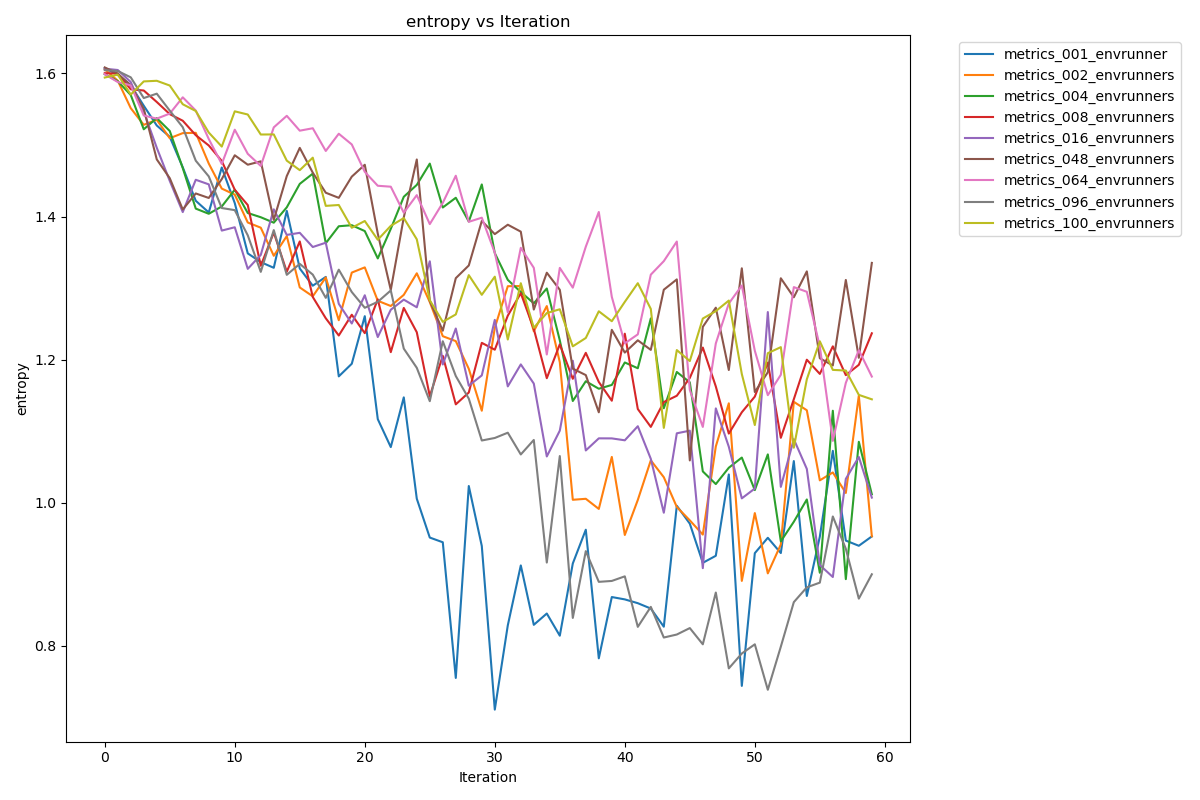
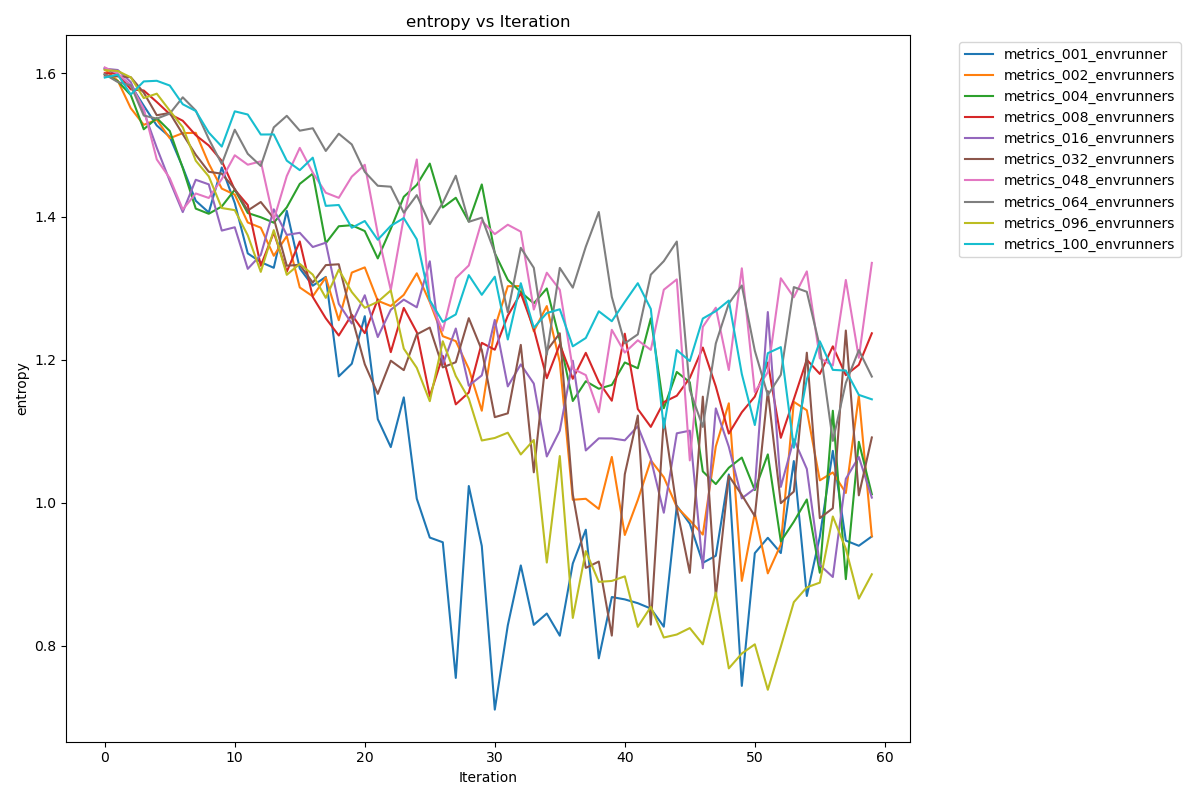
Add 32 envrunners

diff --git a/report.md b/report.md
@@ -61,17 +61,11 @@ Note: The throughput graph excludes the first iteration. The initial measurement
 | metrics_2hosts_104envrunners | 52.634615384615394 | 52.634615384615394 | 25.95306044842719 | 11.022670900842188 | 483.58027691275186 | 78.74916946138404 |
 
 **Total Training Time**
-We expected a signifcant decrease in the time required to collect the 8000 steps, but the time stabilized between 102-109 minutes. We parallelized the sampling phase (playing the game) by increasing the number of runners. However, the learning phase (calculating gradients and updating the network weights) remained a sequential bottleneck.
-
+We expected a signifcant decrease in the time required to collect the 8000 steps, but the time stabilized between 102-109 minutes. One hypothesis to explain this is that we parallelized the sampling phase (playing the game) by increasing the number of runners. However, the learning phase (calculating gradients and updating the network weights) remained a sequential bottleneck.
 
 **Sample Efficiency**
 We expected the rewards to increase, but single-node setups with 1–2 envs had the highest performance. Very high parallelism or multi-node setups might have reduced reward due to unstable learning and synchronization overhead. While 1–2 runners allowed the agent to achieve high mean returns, the 104-runner distributed setup saw a sharp decline.
 
-**Episode Length**
-We expected an increase in episode length.
-
-
-**Losses and Policy Entropy**
 
 **Sample Throughput**
 
@@ -97,6 +91,7 @@ Below can be found a detailed presentation of each experiment.
 | metrics_004_envrunners | 102.1875 | 102.1875 | 60.906576492537326 | 22.80347487439459 | 938.502139303483 | 66.16930259080075 |
 | metrics_008_envrunners | 120.32500000000002 | 151.4375 | 85.81225340136055 | 37.92548127820646 | 794.9601573129253 | 71.02742005495423 |
 | metrics_016_envrunners | 107.8375 | 111.75 | 68.85440883190883 | 26.60861981958292 | 695.885892094017 | 73.48247530354112 |
+| metrics_032_envrunners | 171.8125 | 176.59375 | 106.53732073011734 | 58.949269654604244 | 630.1186033246413 | 72.87489488745433 |
 | metrics_048_envrunners | 71.33333333333333 | 90.33333333333331 | 60.075464083938655 | 24.010422146349164 | 611.3496771589993 | 75.6646421836694 |
 | metrics_064_envrunners | 150.109375 | 152.0 | 79.24534581386074 | 47.78348748577528 | 610.1362361905492 | 77.32921319605522 |
 | metrics_096_envrunners | 104.08333333333331 | 104.08333333333331 | 52.108100221309996 | 25.830408052200628 | 585.9487801162471 | 73.7251977142047 |
@@ -109,7 +104,7 @@ We were able to detect that the throughtput increased, with more environment ste
 
 ![Env steps per second vs iteration](comparison_results/1host/env_steps_per_second_vs_iteration.png)
 
-However, the analysis of the rewards shows that the highest rewards were achieved with 2 environment runners, followed by experiments with 64, 8, and 1.
+However, the analysis of the rewards shows that the highest rewards were achieved with 2 environment runners, followed by experiments with 64, 32, 8, and 1.
 
 ![Reward vs iteration](comparison_results/1host/reward_vs_iteration.png)
 
@@ -220,9 +215,10 @@ Hoping to benefit from horizontal scaling, we tested a configuration with 2 host
 
 ![Training dashboard](dashboards/training_dashboard_2hosts_104envrunners.png)
 
-#### Experiment 14: 2 host, 96 environment runners
+#### Experiment 14: 2 hosts, 96 environment runners
 
 Master Node: paradoxe-34.rennes.grid5000.fr
+
 Worker Nodes: paradoxe-38.rennes.grid5000.fr
 
 We understood that the fact that the training with 96 environment runners and 2 hosts led to worse results than the training with 1 host and the same number of runners could have been expected, since we divide the runners, but we do not profit from the added resources, since we did not change anything else in the configuration. 
@@ -241,6 +237,10 @@ We were unable to finish this experiment as it took longer than 3 hours, which w
 
 #### Experiment 16: 2 hosts, 200 environment runners
 
+Master Node: paradoxe-38.rennes.grid5000.fr
+
+Worker Nodes: paradoxe-51.rennes.grid5000.fr
+
 Batch size: 8k
 
 We then proceeded to test the same configuration but for a training batch size of 8000. This experiment was able to run until the end.
@@ -255,15 +255,8 @@ Master Node: paradoxe-34.rennes.grid5000.fr
 
 Worker Nodes: paradoxe-38.rennes.grid5000.fr
 
-Batch size: 32k
+Batch size: 8k
 
-#### Experiment 18: 8 host, 800 environment runners
-
-Master Node: paradoxe-34.rennes.grid5000.fr
-
-Worker Nodes: paradoxe-38.rennes.grid5000.fr
-
-Batch size: 64k
 
 ## Contributions
 
